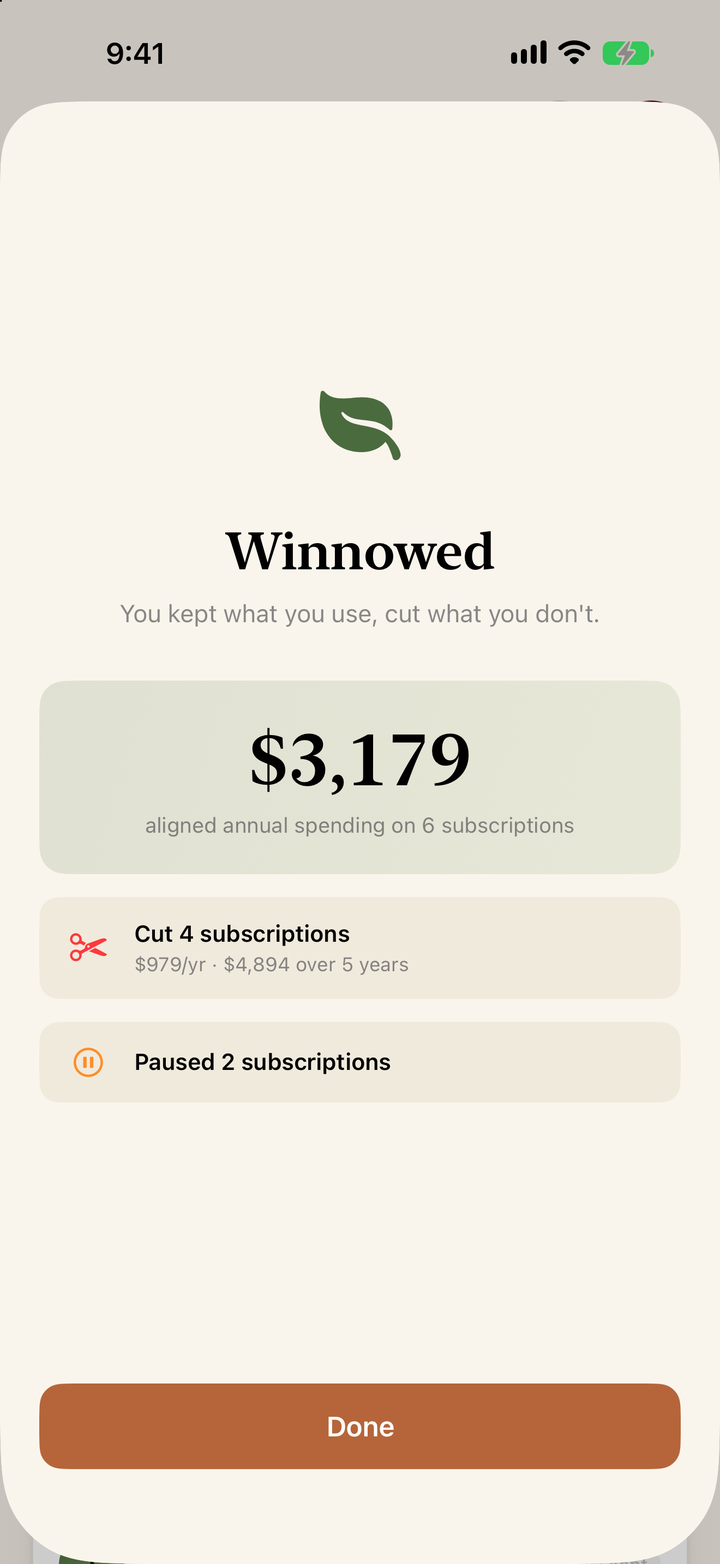
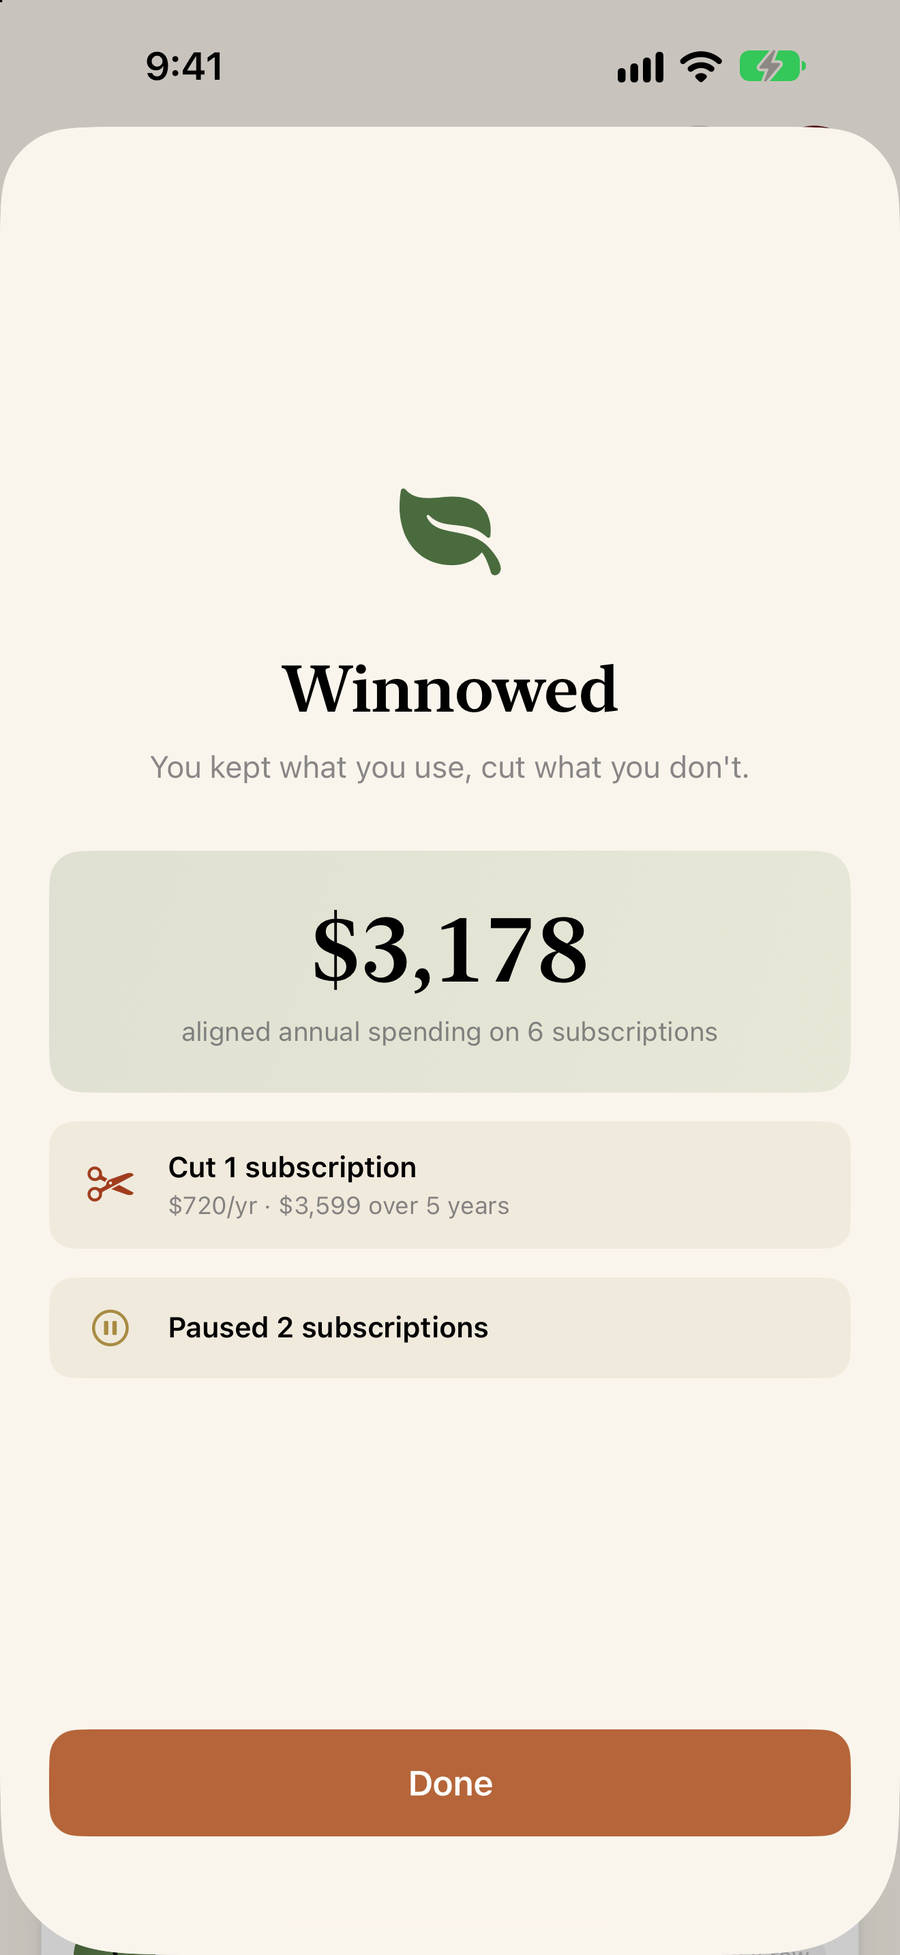
Updated site for v2.1

diff --git a/index.html b/index.html
@@ -199,7 +199,7 @@
                 </figure>
 
                 <figure class="shot fade-up">
-                    <img src="/images/review.png" alt="The Review screen, showing one subscription at a time with a usage question and Cut, Pause, and Keep options." loading="lazy">
+                    <img src="/images/review.png" alt="The Review screen, showing one subscription at a time with a usage question, a short note on why, and Cut, Pause, and Keep options." loading="lazy">
                     <figcaption>
                         <div class="shot-caption">The Review</div>
                         <div class="shot-caption-sub">One card at a time. Swipe right to keep, left to cut.</div>
@@ -223,7 +223,7 @@
             <div class="features">
                 <div class="feature fade-up">
                     <div class="feature-shot">
-                        <img src="/images/also-01-scan.png" alt="The scan triage screen, showing likely matches with a confidence figure and a checkbox beside each detected subscription." loading="lazy">
+                        <img src="/images/also-01-scan.png" alt="The scan triage screen, showing Dropbox, Notion, Max, and Peloton found on a bank statement, each with a confidence figure and a checkbox." loading="lazy">
                     </div>
                     <div class="feature-text">
                         <div class="feature-num">01</div>
@@ -234,7 +234,7 @@
 
                 <div class="feature reverse fade-up">
                     <div class="feature-shot">
-                        <img src="/images/also-02-gradient.png" alt="The Aligned summary screen, with a sage-green card showing $3,322 of aligned annual spending and rows for the subscriptions cut and paused during the review." loading="lazy">
+                        <img src="/images/also-02-gradient.png" alt="The Aligned summary screen, with a sage-green card showing $3,178 of aligned annual spending across six subscriptions, one cut and two paused." loading="lazy">
                     </div>
                     <div class="feature-text">
                         <div class="feature-num">02</div>
